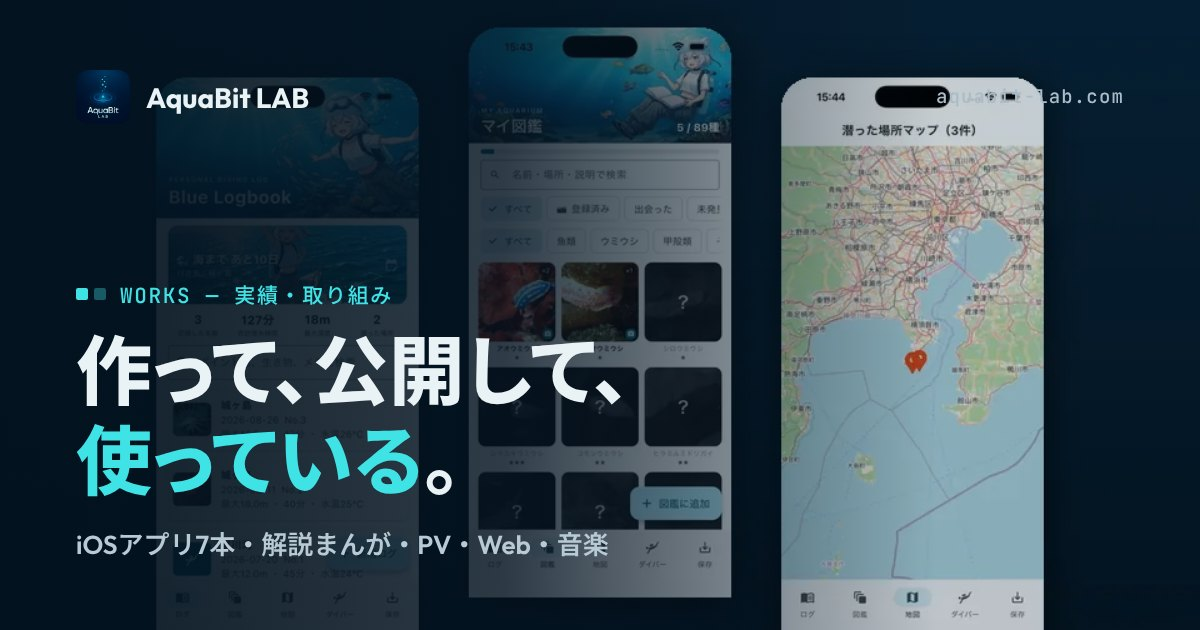
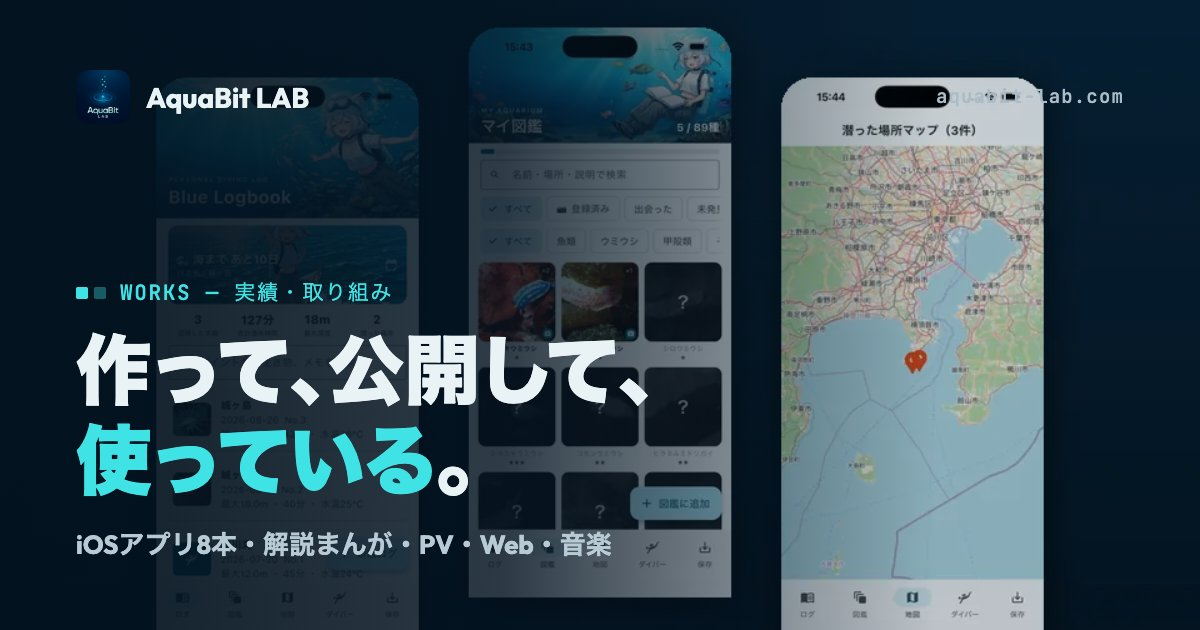
かくれんぼダイブを実績に追加（カード・台帳・アプリ数を8本に）
- /works: かくれんぼダイブのカード（実画面3枚の絵 work-kakurenbo-dive.webp）と台帳の行を足し、ItemList に1本、見出し・LATEST・日付の「7本」「2026-11-14」を「8本」「2026-11-16」に
- 台帳の行は、専用ページを作らず（サポートは三浦 海の学校のサイト）、サポートへのリンクと App Store の公式バッジを置く
- トップ・AI学習サロン・ABLとは・llms.txt・README のアプリ数と名前、sitemap の日付（/・/works・/ai-salon/・/about）
- tools/check.py: アプリ7本も古い数に／tools/og.mjs: og-works の「8本」。og-works.jpg は Mac で描き直し（和文はヒラギノ）。ほかの共有画像は変えていない
- work-kakurenbo-dive.webp は、ストア用の見出しなしの実画面（タコ・撮った瞬間・アルバム）を、ストアの画像と同じ海の紺の地に並べたもの（960x600）

diff --git a/works.html b/works.html
@@ -4,7 +4,7 @@
 <meta charset="utf-8">
 <meta name="viewport" content="width=device-width, initial-scale=1, viewport-fit=cover">
 <title>実績・取り組み｜AIで作ったアプリ・まんが・映像・Web｜AquaBit LAB</title>
-<meta name="description" content="AquaBit LABがAIといっしょに作り、公開・運用しているものの台帳（公開した日付の順）。App Storeで公開中のiOSアプリ「海の日めくり」「うちの行事アルバム」「仏のたとえ」「龍脈マップ」「海学」「いまメシ」「Blue Logbook」、仏さまの縦動画メディア「鬼と仏」、ショート動画の工場とSNSの予約投稿、解説まんが24話、PV・データ映像、アルバム「魚歌」、Webサイトの全面リニューアル、AI検索対策、著書、AIウェビナーなど。">
+<meta name="description" content="AquaBit LABがAIといっしょに作り、公開・運用しているものの台帳（公開した日付の順）。App Storeで公開中のiOSアプリ「かくれんぼダイブ」「海の日めくり」「うちの行事アルバム」「仏のたとえ」「龍脈マップ」「海学」「いまメシ」「Blue Logbook」、仏さまの縦動画メディア「鬼と仏」、ショート動画の工場とSNSの予約投稿、解説まんが24話、PV・データ映像、アルバム「魚歌」、Webサイトの全面リニューアル、AI検索対策、著書、AIウェビナーなど。">
 <meta name="robots" content="index,follow,max-image-preview:large">
 <link rel="canonical" href="https://aquabit-lab.com/works">
 <meta name="theme-color" content="#03121f">
@@ -12,7 +12,7 @@
 <meta property="og:site_name" content="AquaBit LAB">
 <meta property="og:locale" content="ja_JP">
 <meta property="og:title" content="作って、公開して、使っている。— 実績・取り組み｜AquaBit LAB">
-<meta property="og:description" content="AquaBit LABがAIといっしょに作り、公開・運用しているものの台帳（公開した日付の順）。App Storeで公開中のiOSアプリ「海の日めくり」「うちの行事アルバム」「仏のたとえ」「龍脈マップ」「海学」「いまメシ」「Blue Logbook」、仏さまの縦動画メディア「鬼と仏」、ショート動画の工場とSNSの予約投稿、解説まんが24話、PV・データ映像、アルバム「魚歌」、Webサイトの全面リニューアル、AI検索対策、著書、AIウェビナーなど。">
+<meta property="og:description" content="AquaBit LABがAIといっしょに作り、公開・運用しているものの台帳（公開した日付の順）。App Storeで公開中のiOSアプリ「かくれんぼダイブ」「海の日めくり」「うちの行事アルバム」「仏のたとえ」「龍脈マップ」「海学」「いまメシ」「Blue Logbook」、仏さまの縦動画メディア「鬼と仏」、ショート動画の工場とSNSの予約投稿、解説まんが24話、PV・データ映像、アルバム「魚歌」、Webサイトの全面リニューアル、AI検索対策、著書、AIウェビナーなど。">
 <meta property="og:url" content="https://aquabit-lab.com/works">
 <meta property="og:image" content="https://aquabit-lab.com/images/abl/og-works.jpg">
 <meta property="og:image:width" content="1200">
@@ -26,7 +26,7 @@
 <link rel="stylesheet" href="https://fonts.googleapis.com/css2?family=JetBrains+Mono:wght@400;500&family=Outfit:wght@500;700;800&display=optional" media="print" onload="this.media='all'">
 <link rel="stylesheet" href="/css/abl.css?v=2026111401">
 <script>document.documentElement.classList.add('js')</script>
-<script type="application/ld+json">{"@context":"https://schema.org","@graph":[{"@type":"CollectionPage","name":"実績・取り組み","url":"https://aquabit-lab.com/works","isPartOf":{"@id":"https://aquabit-lab.com/#site"},"mainEntity":{"@type":"ItemList","itemListElement":[{"@type":"ListItem","position":1,"item":{"@type":"SoftwareApplication","name":"Blue Logbook - ダイビングログブック","operatingSystem":"iOS","applicationCategory":"SportsApplication","url":"https://apps.apple.com/jp/app/id6806158093","offers":{"@type":"Offer","price":"0","priceCurrency":"JPY"},"author":{"@type":"Person","name":"吉田 哲司"}}},{"@type":"ListItem","position":2,"item":{"@type":"SoftwareApplication","name":"いまメシ","operatingSystem":"iOS","applicationCategory":"FoodAndDrinkApplication","url":"https://apps.apple.com/jp/app/id6806607641","offers":{"@type":"Offer","price":"0","priceCurrency":"JPY"},"author":{"@type":"Person","name":"吉田 哲司"}}},{"@type":"ListItem","position":3,"item":{"@type":"SoftwareApplication","name":"龍脈マップ","operatingSystem":"iOS","applicationCategory":"TravelApplication","url":"https://apps.apple.com/jp/app/id6831985741","offers":{"@type":"Offer","price":"0","priceCurrency":"JPY"},"author":{"@type":"Person","name":"吉田 哲司"}}},{"@type":"ListItem","position":4,"item":{"@type":"SoftwareApplication","name":"仏のたとえ","operatingSystem":"iOS","applicationCategory":"EducationalApplication","url":"https://apps.apple.com/jp/app/id6832482210","offers":{"@type":"Offer","price":"0","priceCurrency":"JPY"},"author":{"@type":"Person","name":"吉田 哲司"}}},{"@type":"ListItem","position":5,"item":{"@type":"SoftwareApplication","name":"うちの行事アルバム","operatingSystem":"iOS","applicationCategory":"MultimediaApplication","url":"https://apps.apple.com/jp/app/id6833319101","offers":{"@type":"Offer","price":"0","priceCurrency":"JPY"},"author":{"@type":"Person","name":"吉田 哲司"}}},{"@type":"ListItem","position":6,"item":{"@type":"SoftwareApplication","name":"海の日めくり","operatingSystem":"iOS","applicationCategory":"LifestyleApplication","url":"https://apps.apple.com/jp/app/id6834386701","offers":{"@type":"Offer","price":"0","priceCurrency":"JPY"},"author":{"@type":"Person","name":"吉田 哲司"}}},{"@type":"ListItem","position":7,"item":{"@type":"SoftwareApplication","name":"海学","operatingSystem":"iOS","applicationCategory":"GameApplication","url":"https://apps.apple.com/jp/app/id6810276864","offers":{"@type":"Offer","price":"0","priceCurrency":"JPY"},"author":{"@type":"Person","name":"吉田 哲司"}}},{"@type":"ListItem","position":8,"item":{"@type":"CreativeWorkSeries","name":"まんがで読むダイビング","url":"https://miura-diving.com/manga/"}},{"@type":"ListItem","position":9,"item":{"@type":"MusicAlbum","name":"魚歌 UO-UTA","url":"https://tj-music.com/","numTracks":19}}]}},{"@type":"BreadcrumbList","itemListElement":[{"@type":"ListItem","position":1,"name":"ホーム","item":"https://aquabit-lab.com/"},{"@type":"ListItem","position":2,"name":"実績・取り組み","item":"https://aquabit-lab.com/works"}]}]}</script>
+<script type="application/ld+json">{"@context":"https://schema.org","@graph":[{"@type":"CollectionPage","name":"実績・取り組み","url":"https://aquabit-lab.com/works","isPartOf":{"@id":"https://aquabit-lab.com/#site"},"mainEntity":{"@type":"ItemList","itemListElement":[{"@type":"ListItem","position":1,"item":{"@type":"SoftwareApplication","name":"Blue Logbook - ダイビングログブック","operatingSystem":"iOS","applicationCategory":"SportsApplication","url":"https://apps.apple.com/jp/app/id6806158093","offers":{"@type":"Offer","price":"0","priceCurrency":"JPY"},"author":{"@type":"Person","name":"吉田 哲司"}}},{"@type":"ListItem","position":2,"item":{"@type":"SoftwareApplication","name":"いまメシ","operatingSystem":"iOS","applicationCategory":"FoodAndDrinkApplication","url":"https://apps.apple.com/jp/app/id6806607641","offers":{"@type":"Offer","price":"0","priceCurrency":"JPY"},"author":{"@type":"Person","name":"吉田 哲司"}}},{"@type":"ListItem","position":3,"item":{"@type":"SoftwareApplication","name":"龍脈マップ","operatingSystem":"iOS","applicationCategory":"TravelApplication","url":"https://apps.apple.com/jp/app/id6831985741","offers":{"@type":"Offer","price":"0","priceCurrency":"JPY"},"author":{"@type":"Person","name":"吉田 哲司"}}},{"@type":"ListItem","position":4,"item":{"@type":"SoftwareApplication","name":"仏のたとえ","operatingSystem":"iOS","applicationCategory":"EducationalApplication","url":"https://apps.apple.com/jp/app/id6832482210","offers":{"@type":"Offer","price":"0","priceCurrency":"JPY"},"author":{"@type":"Person","name":"吉田 哲司"}}},{"@type":"ListItem","position":5,"item":{"@type":"SoftwareApplication","name":"うちの行事アルバム","operatingSystem":"iOS","applicationCategory":"MultimediaApplication","url":"https://apps.apple.com/jp/app/id6833319101","offers":{"@type":"Offer","price":"0","priceCurrency":"JPY"},"author":{"@type":"Person","name":"吉田 哲司"}}},{"@type":"ListItem","position":6,"item":{"@type":"SoftwareApplication","name":"海の日めくり","operatingSystem":"iOS","applicationCategory":"LifestyleApplication","url":"https://apps.apple.com/jp/app/id6834386701","offers":{"@type":"Offer","price":"0","priceCurrency":"JPY"},"author":{"@type":"Person","name":"吉田 哲司"}}},{"@type":"ListItem","position":7,"item":{"@type":"SoftwareApplication","name":"かくれんぼダイブ","operatingSystem":"iOS","applicationCategory":"GameApplication","url":"https://apps.apple.com/jp/app/id6835076333","offers":{"@type":"Offer","price":"0","priceCurrency":"JPY"},"author":{"@type":"Person","name":"吉田 哲司"}}},{"@type":"ListItem","position":8,"item":{"@type":"SoftwareApplication","name":"海学","operatingSystem":"iOS","applicationCategory":"GameApplication","url":"https://apps.apple.com/jp/app/id6810276864","offers":{"@type":"Offer","price":"0","priceCurrency":"JPY"},"author":{"@type":"Person","name":"吉田 哲司"}}},{"@type":"ListItem","position":9,"item":{"@type":"CreativeWorkSeries","name":"まんがで読むダイビング","url":"https://miura-diving.com/manga/"}},{"@type":"ListItem","position":10,"item":{"@type":"MusicAlbum","name":"魚歌 UO-UTA","url":"https://tj-music.com/","numTracks":19}}]}},{"@type":"BreadcrumbList","itemListElement":[{"@type":"ListItem","position":1,"name":"ホーム","item":"https://aquabit-lab.com/"},{"@type":"ListItem","position":2,"name":"実績・取り組み","item":"https://aquabit-lab.com/works"}]}]}</script>
 </head>
 <body class="is-light-top">
 <a class="skip" href="#main">本文へ移動</a>
@@ -56,7 +56,7 @@
 <section class="phero phero--paper phero--short" aria-labelledby="page-title">
   <div class="wrap">
     <ol class="crumbs"><li><a href="/">ホーム</a></li><li aria-current="page">実績・取り組み</li></ol>
-    <p class="label label--live">LATEST — <time datetime="2026-11-14">2026-11-14</time> 海の日めくり</p>
+    <p class="label label--live">LATEST — <time datetime="2026-11-16">2026-11-16</time> かくれんぼダイブ</p>
     <h1 class="h1" id="page-title"><span class="nw">作って、公開して、</span><span class="nw">使っている。</span></h1>
     <p class="lead">公開した日付の順。すべて自分で作り、世に出したものです。お客さまの仕事でも、同じ作り方をします。</p>
   </div>
@@ -65,11 +65,18 @@
 <section class="stage" id="apps" aria-labelledby="apps-title">
   <div class="wrap">
     <div class="sec-head">
-      <p class="label"><time datetime="2026-09">2026-09</time> → <time datetime="2026-11-14">2026-11-14</time> · App Store</p>
-      <h2 class="h2" id="apps-title"><span class="nw">iPhoneアプリ、</span><span class="nw">7本。</span></h2>
+      <p class="label"><time datetime="2026-09">2026-09</time> → <time datetime="2026-11-16">2026-11-16</time> · App Store</p>
+      <h2 class="h2" id="apps-title"><span class="nw">iPhoneアプリ、</span><span class="nw">8本。</span></h2>
       <p class="lead">どれも App Store で無料公開中。何を作るかと最後の確認は人。設計・実装・審査への対応は、AIといっしょに。</p>
     </div>
     <div class="appstrip" aria-label="アプリの実際の画面（横にスクロールできます）">
+      <a class="appcard" href="https://apps.apple.com/jp/app/id6835076333" target="_blank" rel="noopener">
+        <span class="appcard__img"><img src="/images/abl/work-kakurenbo-dive.webp" alt="かくれんぼダイブのゲーム画面3枚。岩の上で色をまねてかくれているマダコ、見つけたカエルアンコウを撮った瞬間、撮った写真が貼られたアルバム（カクレクマノミ・マダコ・タツノオトシゴ・アオウミウシなど）" width="960" height="600" loading="lazy"></span>
+        <span class="appcard__meta">2026-11-16 · 無料</span>
+        <b>かくれんぼダイブ</b>
+        <span class="appcard__desc">かくれる海のいきものを、さがして撮る。</span>
+        <span class="appcard__go">App Store <svg class="arr" viewBox="0 0 24 24" fill="none" stroke="currentColor" stroke-width="1.6" stroke-linecap="round" stroke-linejoin="round" aria-hidden="true"><path d="M7 17L17 7M9 7h8v8"/></svg></span>
+      </a>
       <a class="appcard" href="https://apps.apple.com/jp/app/id6834386701" target="_blank" rel="noopener">
         <span class="appcard__img"><img src="/images/abl/work-umi-himekuri.webp" alt="海の日めくりのアプリ画面3枚。日付・月の形・旧暦・潮・七十二候ときょうのひとことが載った日めくりの紙、紙を長く押すと見えるいまの空（月と星、月の出・月の入りの時刻）、めくった紙と一行がたまる紙の束" width="960" height="600" loading="lazy"></span>
         <span class="appcard__meta">2026-11-14 · 無料</span>
@@ -126,7 +133,7 @@
 <section class="paper" id="ledger" aria-labelledby="list-title">
   <div class="wrap">
     <div class="sec-head">
-      <p class="label"><time datetime="2026-11-14">2026-11-14</time> 更新 — 新しい順</p>
+      <p class="label"><time datetime="2026-11-16">2026-11-16</time> 更新 — 新しい順</p>
       <h2 class="h2" id="list-title"><span class="nw">公開した日付の、</span><span class="nw">台帳。</span></h2>
       <p class="lead">1行に、いつ・何を・人とAIのどちらが何をしたか。種類で絞り込めます。</p>
     </div>
@@ -142,6 +149,16 @@
 
     <div class="works works--ledger">
       <div class="ledger ledger--stack">
+        <div class="ledger__row" data-cat="apps">
+          <span class="ledger__k"><time datetime="2026-11-16">2026-11-16</time><b>アプリ</b></span>
+          <span class="ledger__main">
+            <h3>かくれんぼダイブ — 海のいきものを、さがして撮る</h3>
+            <p>3Dの海で、岩や海藻・砂の色をまねてかくれている海のいきもの（36しゅるい）を見つけて、タッチで写真を撮るiPhoneのゲームです。アザラシのコロといっしょにもぐり、撮った写真は案内役クララのログブックに貼られて、図鑑とアルバムが埋まっていきます。浅瀬から夜の岩礁・沈船まで7つのポイントと、毎日かわる「今日の海」。くうきがへらない「のんびり」やひらがなモードもあり、広告・課金・アカウント登録なしで、オフラインでも遊べます。使い方とサポートは、三浦 海の学校のサイトにあります。</p>
+            <span class="ledger__who"><span><span class="tag tag--human">人</span>何を作るか・遊んでみての直し・最後の確認</span><span><span class="tag tag--ai">AI</span>3Dの海といきもの・設計と実装・審査への対応</span></span>
+          </span>
+          <span class="ledger__go ledger__go--links"><a href="https://miura-diving.com/kakurenbo-dive/support/" target="_blank" rel="noopener">サポート <svg class="arr" viewBox="0 0 24 24" fill="none" stroke="currentColor" stroke-width="1.6" stroke-linecap="round" stroke-linejoin="round" aria-hidden="true"><path d="M7 17L17 7M9 7h8v8"/></svg></a><a href="https://apps.apple.com/jp/app/id6835076333" target="_blank" rel="noopener" aria-label="かくれんぼダイブを App Store からダウンロード（新しいタブで開きます）"><img src="/images/abl/app-store-badge-ja.svg" alt="App Store からダウンロード" width="109" height="40" style="display:block;height:40px;width:auto"></a></span>
+        </div>
+
         <div class="ledger__row" data-cat="apps">
           <span class="ledger__k"><time datetime="2026-11-14">2026-11-14</time><b>アプリ</b></span>
           <span class="ledger__main">

diff --git a/src/pages/works.html b/src/pages/works.html
@@ -1,7 +1,7 @@
 <!--@ {
 "title": "実績・取り組み｜AIで作ったアプリ・まんが・映像・Web｜AquaBit LAB",
 "og_title": "作って、公開して、使っている。— 実績・取り組み｜AquaBit LAB",
-"description": "AquaBit LABがAIといっしょに作り、公開・運用しているものの台帳（公開した日付の順）。App Storeで公開中のiOSアプリ「海の日めくり」「うちの行事アルバム」「仏のたとえ」「龍脈マップ」「海学」「いまメシ」「Blue Logbook」、仏さまの縦動画メディア「鬼と仏」、ショート動画の工場とSNSの予約投稿、解説まんが24話、PV・データ映像、アルバム「魚歌」、Webサイトの全面リニューアル、AI検索対策、著書、AIウェビナーなど。",
+"description": "AquaBit LABがAIといっしょに作り、公開・運用しているものの台帳（公開した日付の順）。App Storeで公開中のiOSアプリ「かくれんぼダイブ」「海の日めくり」「うちの行事アルバム」「仏のたとえ」「龍脈マップ」「海学」「いまメシ」「Blue Logbook」、仏さまの縦動画メディア「鬼と仏」、ショート動画の工場とSNSの予約投稿、解説まんが24話、PV・データ映像、アルバム「魚歌」、Webサイトの全面リニューアル、AI検索対策、著書、AIウェビナーなど。",
 "path": "/works",
 "og": "og-works.jpg",
 "nav": "works",
@@ -16,16 +16,17 @@
      {"@type": "ListItem", "position": 4, "item": {"@type": "SoftwareApplication", "name": "仏のたとえ", "operatingSystem": "iOS", "applicationCategory": "EducationalApplication", "url": "https://apps.apple.com/jp/app/id6832482210", "offers": {"@type": "Offer", "price": "0", "priceCurrency": "JPY"}, "author": {"@type": "Person", "name": "吉田 哲司"}}},
      {"@type": "ListItem", "position": 5, "item": {"@type": "SoftwareApplication", "name": "うちの行事アルバム", "operatingSystem": "iOS", "applicationCategory": "MultimediaApplication", "url": "https://apps.apple.com/jp/app/id6833319101", "offers": {"@type": "Offer", "price": "0", "priceCurrency": "JPY"}, "author": {"@type": "Person", "name": "吉田 哲司"}}},
      {"@type": "ListItem", "position": 6, "item": {"@type": "SoftwareApplication", "name": "海の日めくり", "operatingSystem": "iOS", "applicationCategory": "LifestyleApplication", "url": "https://apps.apple.com/jp/app/id6834386701", "offers": {"@type": "Offer", "price": "0", "priceCurrency": "JPY"}, "author": {"@type": "Person", "name": "吉田 哲司"}}},
-     {"@type": "ListItem", "position": 7, "item": {"@type": "SoftwareApplication", "name": "海学", "operatingSystem": "iOS", "applicationCategory": "GameApplication", "url": "https://apps.apple.com/jp/app/id6810276864", "offers": {"@type": "Offer", "price": "0", "priceCurrency": "JPY"}, "author": {"@type": "Person", "name": "吉田 哲司"}}},
-     {"@type": "ListItem", "position": 8, "item": {"@type": "CreativeWorkSeries", "name": "まんがで読むダイビング", "url": "https://miura-diving.com/manga/"}},
-     {"@type": "ListItem", "position": 9, "item": {"@type": "MusicAlbum", "name": "魚歌 UO-UTA", "url": "https://tj-music.com/", "numTracks": 19}}
+     {"@type": "ListItem", "position": 7, "item": {"@type": "SoftwareApplication", "name": "かくれんぼダイブ", "operatingSystem": "iOS", "applicationCategory": "GameApplication", "url": "https://apps.apple.com/jp/app/id6835076333", "offers": {"@type": "Offer", "price": "0", "priceCurrency": "JPY"}, "author": {"@type": "Person", "name": "吉田 哲司"}}},
+     {"@type": "ListItem", "position": 8, "item": {"@type": "SoftwareApplication", "name": "海学", "operatingSystem": "iOS", "applicationCategory": "GameApplication", "url": "https://apps.apple.com/jp/app/id6810276864", "offers": {"@type": "Offer", "price": "0", "priceCurrency": "JPY"}, "author": {"@type": "Person", "name": "吉田 哲司"}}},
+     {"@type": "ListItem", "position": 9, "item": {"@type": "CreativeWorkSeries", "name": "まんがで読むダイビング", "url": "https://miura-diving.com/manga/"}},
+     {"@type": "ListItem", "position": 10, "item": {"@type": "MusicAlbum", "name": "魚歌 UO-UTA", "url": "https://tj-music.com/", "numTracks": 19}}
    ]}}
 ]
 } @-->
 <section class="phero phero--paper phero--short" aria-labelledby="page-title">
   <div class="wrap">
     <ol class="crumbs"><li><a href="/">ホーム</a></li><li aria-current="page">実績・取り組み</li></ol>
-    <p class="label label--live">LATEST — <time datetime="2026-11-14">2026-11-14</time> 海の日めくり</p>
+    <p class="label label--live">LATEST — <time datetime="2026-11-16">2026-11-16</time> かくれんぼダイブ</p>
     <h1 class="h1" id="page-title"><span class="nw">作って、公開して、</span><span class="nw">使っている。</span></h1>
     <p class="lead">公開した日付の順。すべて自分で作り、世に出したものです。お客さまの仕事でも、同じ作り方をします。</p>
   </div>
@@ -34,11 +35,18 @@
 <section class="stage" id="apps" aria-labelledby="apps-title">
   <div class="wrap">
     <div class="sec-head">
-      <p class="label"><time datetime="2026-09">2026-09</time> → <time datetime="2026-11-14">2026-11-14</time> · App Store</p>
-      <h2 class="h2" id="apps-title"><span class="nw">iPhoneアプリ、</span><span class="nw">7本。</span></h2>
+      <p class="label"><time datetime="2026-09">2026-09</time> → <time datetime="2026-11-16">2026-11-16</time> · App Store</p>
+      <h2 class="h2" id="apps-title"><span class="nw">iPhoneアプリ、</span><span class="nw">8本。</span></h2>
       <p class="lead">どれも App Store で無料公開中。何を作るかと最後の確認は人。設計・実装・審査への対応は、AIといっしょに。</p>
     </div>
     <div class="appstrip" aria-label="アプリの実際の画面（横にスクロールできます）">
+      <a class="appcard" href="https://apps.apple.com/jp/app/id6835076333" target="_blank" rel="noopener">
+        <span class="appcard__img"><img src="/images/abl/work-kakurenbo-dive.webp" alt="かくれんぼダイブのゲーム画面3枚。岩の上で色をまねてかくれているマダコ、見つけたカエルアンコウを撮った瞬間、撮った写真が貼られたアルバム（カクレクマノミ・マダコ・タツノオトシゴ・アオウミウシなど）" width="960" height="600" loading="lazy"></span>
+        <span class="appcard__meta">2026-11-16 · 無料</span>
+        <b>かくれんぼダイブ</b>
+        <span class="appcard__desc">かくれる海のいきものを、さがして撮る。</span>
+        <span class="appcard__go">App Store {{ext}}</span>
+      </a>
       <a class="appcard" href="https://apps.apple.com/jp/app/id6834386701" target="_blank" rel="noopener">
         <span class="appcard__img"><img src="/images/abl/work-umi-himekuri.webp" alt="海の日めくりのアプリ画面3枚。日付・月の形・旧暦・潮・七十二候ときょうのひとことが載った日めくりの紙、紙を長く押すと見えるいまの空（月と星、月の出・月の入りの時刻）、めくった紙と一行がたまる紙の束" width="960" height="600" loading="lazy"></span>
         <span class="appcard__meta">2026-11-14 · 無料</span>
@@ -95,7 +103,7 @@
 <section class="paper" id="ledger" aria-labelledby="list-title">
   <div class="wrap">
     <div class="sec-head">
-      <p class="label"><time datetime="2026-11-14">2026-11-14</time> 更新 — 新しい順</p>
+      <p class="label"><time datetime="2026-11-16">2026-11-16</time> 更新 — 新しい順</p>
       <h2 class="h2" id="list-title"><span class="nw">公開した日付の、</span><span class="nw">台帳。</span></h2>
       <p class="lead">1行に、いつ・何を・人とAIのどちらが何をしたか。種類で絞り込めます。</p>
     </div>
@@ -111,6 +119,16 @@
 
     <div class="works works--ledger">
       <div class="ledger ledger--stack">
+        <div class="ledger__row" data-cat="apps">
+          <span class="ledger__k"><time datetime="2026-11-16">2026-11-16</time><b>アプリ</b></span>
+          <span class="ledger__main">
+            <h3>かくれんぼダイブ — 海のいきものを、さがして撮る</h3>
+            <p>3Dの海で、岩や海藻・砂の色をまねてかくれている海のいきもの（36しゅるい）を見つけて、タッチで写真を撮るiPhoneのゲームです。アザラシのコロといっしょにもぐり、撮った写真は案内役クララのログブックに貼られて、図鑑とアルバムが埋まっていきます。浅瀬から夜の岩礁・沈船まで7つのポイントと、毎日かわる「今日の海」。くうきがへらない「のんびり」やひらがなモードもあり、広告・課金・アカウント登録なしで、オフラインでも遊べます。使い方とサポートは、三浦 海の学校のサイトにあります。</p>
+            <span class="ledger__who"><span><span class="tag tag--human">人</span>何を作るか・遊んでみての直し・最後の確認</span><span><span class="tag tag--ai">AI</span>3Dの海といきもの・設計と実装・審査への対応</span></span>
+          </span>
+          <span class="ledger__go ledger__go--links"><a href="https://miura-diving.com/kakurenbo-dive/support/" target="_blank" rel="noopener">サポート {{ext}}</a><a href="https://apps.apple.com/jp/app/id6835076333" target="_blank" rel="noopener" aria-label="かくれんぼダイブを App Store からダウンロード（新しいタブで開きます）"><img src="/images/abl/app-store-badge-ja.svg" alt="App Store からダウンロード" width="109" height="40" style="display:block;height:40px;width:auto"></a></span>
+        </div>
+
         <div class="ledger__row" data-cat="apps">
           <span class="ledger__k"><time datetime="2026-11-14">2026-11-14</time><b>アプリ</b></span>
           <span class="ledger__main">

diff --git a/ai-salon/index.html b/ai-salon/index.html
@@ -91,7 +91,7 @@
       <p class="lead">どれも講師がAIといっしょに作り、公開・販売しているものです。</p>
     </div>
     <div class="ledger">
-      <a class="ledger__row" href="/works#apps"><span class="ledger__k">APPS<b>iPhoneアプリ 7本</b></span><div class="ledger__main"><h3>Blue Logbook・いまメシ・海学・龍脈マップ・仏のたとえ・うちの行事アルバム・海の日めくり。</h3><p>どれも App Store で無料公開中。いちばん新しい海の日めくりは、2026年11月14日の公開です。</p></div><span class="ledger__go">アプリを見る <svg class="arr" viewBox="0 0 24 24" fill="none" stroke="currentColor" stroke-width="1.6" stroke-linecap="round" stroke-linejoin="round" aria-hidden="true"><path d="M4 12h15M13 6l6 6-6 6"/></svg></span></a>
+      <a class="ledger__row" href="/works#apps"><span class="ledger__k">APPS<b>iPhoneアプリ 8本</b></span><div class="ledger__main"><h3>Blue Logbook・いまメシ・海学・龍脈マップ・仏のたとえ・うちの行事アルバム・海の日めくり・かくれんぼダイブ。</h3><p>どれも App Store で無料公開中。いちばん新しいかくれんぼダイブは、2026年11月16日の公開です。</p></div><span class="ledger__go">アプリを見る <svg class="arr" viewBox="0 0 24 24" fill="none" stroke="currentColor" stroke-width="1.6" stroke-linecap="round" stroke-linejoin="round" aria-hidden="true"><path d="M4 12h15M13 6l6 6-6 6"/></svg></span></a>
       <a class="ledger__row" href="https://miura-diving.com/manga/" target="_blank" rel="noopener"><span class="ledger__k">MANGA<b>まんが 24話</b></span><div class="ledger__main"><h3>よくある質問を、1話ずつまんがに。</h3><p>三浦 海の学校の「まんがで読むダイビング」。24話と動画版を、AIといっしょに作って公開しています。</p></div><span class="ledger__go">読む <svg class="arr" viewBox="0 0 24 24" fill="none" stroke="currentColor" stroke-width="1.6" stroke-linecap="round" stroke-linejoin="round" aria-hidden="true"><path d="M7 17L17 7M9 7h8v8"/></svg></span></a>
       <a class="ledger__row" href="https://tj-music.com/" target="_blank" rel="noopener"><span class="ledger__k">MUSIC<b>アルバム「魚歌」</b></span><div class="ledger__main"><h3>海の生き物を歌う、全19曲。</h3><p>AIの音楽制作ツールで作ったアルバムを配信しています。サビから試聴できます。</p></div><span class="ledger__go">試聴する <svg class="arr" viewBox="0 0 24 24" fill="none" stroke="currentColor" stroke-width="1.6" stroke-linecap="round" stroke-linejoin="round" aria-hidden="true"><path d="M7 17L17 7M9 7h8v8"/></svg></span></a>
       <a class="ledger__row" href="https://www.amazon.co.jp/dp/B0CW1D9Y1Y" target="_blank" rel="noopener"><span class="ledger__k">KINDLE<b>AI絵本・Kindle本</b></span><div class="ledger__main"><h3>文章と絵をAIで作り、Amazonで出版。</h3><p>『うみがめになったぜんくんの大冒険』は、AmazonのAI絵本ランキングで2位に。</p></div><span class="ledger__go">Amazon <svg class="arr" viewBox="0 0 24 24" fill="none" stroke="currentColor" stroke-width="1.6" stroke-linecap="round" stroke-linejoin="round" aria-hidden="true"><path d="M7 17L17 7M9 7h8v8"/></svg></span></a>

diff --git a/about.html b/about.html
@@ -124,7 +124,7 @@
           <div class="ledger__row"><span class="ledger__k">50回+<b>AIウェビナー</b></span><div class="ledger__main"><p>のべ500名以上が参加。</p></div></div>
           <a class="ledger__row" href="https://www.tj-web3.com/#books" target="_blank" rel="noopener"><span class="ledger__k">12冊<b>Kindle</b></span><div class="ledger__main"><p>AI入門・AI絵本・ダイビングの本。</p></div><span class="ledger__go"><svg class="arr" viewBox="0 0 24 24" fill="none" stroke="currentColor" stroke-width="1.6" stroke-linecap="round" stroke-linejoin="round" aria-hidden="true"><path d="M7 17L17 7M9 7h8v8"/></svg></span></a>
           <a class="ledger__row" href="https://tj-music.com/" target="_blank" rel="noopener"><span class="ledger__k">3枚<b>TJ Music</b></span><div class="ledger__main"><p>アルバム。海の生き物を歌う「魚歌」ほか。</p></div><span class="ledger__go"><svg class="arr" viewBox="0 0 24 24" fill="none" stroke="currentColor" stroke-width="1.6" stroke-linecap="round" stroke-linejoin="round" aria-hidden="true"><path d="M7 17L17 7M9 7h8v8"/></svg></span></a>
-          <a class="ledger__row" href="/works#apps"><span class="ledger__k">2026<b>iPhoneアプリ 7本</b></span><div class="ledger__main"><p>Blue Logbook・いまメシ・海学（2026.09）、龍脈マップ（2026.11.08）、仏のたとえ（2026.11.10）、うちの行事アルバム（2026.11.12）、海の日めくり（2026.11.14）。App Store で無料公開中。</p></div><span class="ledger__go"><svg class="arr" viewBox="0 0 24 24" fill="none" stroke="currentColor" stroke-width="1.6" stroke-linecap="round" stroke-linejoin="round" aria-hidden="true"><path d="M4 12h15M13 6l6 6-6 6"/></svg></span></a>
+          <a class="ledger__row" href="/works#apps"><span class="ledger__k">2026<b>iPhoneアプリ 8本</b></span><div class="ledger__main"><p>Blue Logbook・いまメシ・海学（2026.09）、龍脈マップ（2026.11.08）、仏のたとえ（2026.11.10）、うちの行事アルバム（2026.11.12）、海の日めくり（2026.11.14）、かくれんぼダイブ（2026.11.16）。App Store で無料公開中。</p></div><span class="ledger__go"><svg class="arr" viewBox="0 0 24 24" fill="none" stroke="currentColor" stroke-width="1.6" stroke-linecap="round" stroke-linejoin="round" aria-hidden="true"><path d="M4 12h15M13 6l6 6-6 6"/></svg></span></a>
           <a class="ledger__row" href="/lab"><span class="ledger__k">2026.10–<b>ラボの中</b></span><div class="ledger__main"><p>三浦 海の学校のSNSで、縦の短い動画を作って、予約して出す。人が決めて、AIが回す。</p></div><span class="ledger__go"><svg class="arr" viewBox="0 0 24 24" fill="none" stroke="currentColor" stroke-width="1.6" stroke-linecap="round" stroke-linejoin="round" aria-hidden="true"><path d="M4 12h15M13 6l6 6-6 6"/></svg></span></a>
         </div>
       </div>

diff --git a/index.html b/index.html
@@ -155,7 +155,7 @@
     <div class="ledger mt-l">
       <a class="ledger__row" href="https://miura-diving.com/blog/" target="_blank" rel="noopener"><span class="ledger__k">BLOG<b>ブログ</b></span><span class="ledger__main"><h3>潜った日のメモから、記事と挿絵まで。</h3><p>人が写真と一言を渡すと、AIが下書き・挿絵・公開の準備をする。三浦 海の学校のブログ。</p></span><span class="ledger__go">見る <svg class="arr" viewBox="0 0 24 24" fill="none" stroke="currentColor" stroke-width="1.6" stroke-linecap="round" stroke-linejoin="round" aria-hidden="true"><path d="M7 17L17 7M9 7h8v8"/></svg></span></a>
       <a class="ledger__row" href="https://miura-diving.com/manga/" target="_blank" rel="noopener"><span class="ledger__k">MANGA<b>まんが 24話</b></span><span class="ledger__main"><h3>お客さまの不安に、1話ずつ先回り。</h3><p>テーマと事実は人が決め、構成・作画・動画化はAI。全ページを人が確かめて公開。</p></span><span class="ledger__go">読む <svg class="arr" viewBox="0 0 24 24" fill="none" stroke="currentColor" stroke-width="1.6" stroke-linecap="round" stroke-linejoin="round" aria-hidden="true"><path d="M7 17L17 7M9 7h8v8"/></svg></span></a>
-      <a class="ledger__row" href="/works"><span class="ledger__k">APPS<b>iPhoneアプリ 7本</b></span><span class="ledger__main"><h3>Blue Logbook・いまメシ・海学・龍脈マップ・仏のたとえ・うちの行事アルバム・海の日めくり。</h3><p>どれも App Store で無料公開中。設計・実装・審査への対応まで、AIといっしょに。</p></span><span class="ledger__go">実績へ <svg class="arr" viewBox="0 0 24 24" fill="none" stroke="currentColor" stroke-width="1.6" stroke-linecap="round" stroke-linejoin="round" aria-hidden="true"><path d="M4 12h15M13 6l6 6-6 6"/></svg></span></a>
+      <a class="ledger__row" href="/works"><span class="ledger__k">APPS<b>iPhoneアプリ 8本</b></span><span class="ledger__main"><h3>Blue Logbook・いまメシ・海学・龍脈マップ・仏のたとえ・うちの行事アルバム・海の日めくり・かくれんぼダイブ。</h3><p>どれも App Store で無料公開中。設計・実装・審査への対応まで、AIといっしょに。</p></span><span class="ledger__go">実績へ <svg class="arr" viewBox="0 0 24 24" fill="none" stroke="currentColor" stroke-width="1.6" stroke-linecap="round" stroke-linejoin="round" aria-hidden="true"><path d="M4 12h15M13 6l6 6-6 6"/></svg></span></a>
     </div>
   </div>
 </section>

diff --git a/src/pages/ai-salon.html b/src/pages/ai-salon.html
@@ -57,7 +57,7 @@
       <p class="lead">どれも講師がAIといっしょに作り、公開・販売しているものです。</p>
     </div>
     <div class="ledger">
-      <a class="ledger__row" href="/works#apps"><span class="ledger__k">APPS<b>iPhoneアプリ 7本</b></span><div class="ledger__main"><h3>Blue Logbook・いまメシ・海学・龍脈マップ・仏のたとえ・うちの行事アルバム・海の日めくり。</h3><p>どれも App Store で無料公開中。いちばん新しい海の日めくりは、2026年11月14日の公開です。</p></div><span class="ledger__go">アプリを見る {{arr}}</span></a>
+      <a class="ledger__row" href="/works#apps"><span class="ledger__k">APPS<b>iPhoneアプリ 8本</b></span><div class="ledger__main"><h3>Blue Logbook・いまメシ・海学・龍脈マップ・仏のたとえ・うちの行事アルバム・海の日めくり・かくれんぼダイブ。</h3><p>どれも App Store で無料公開中。いちばん新しいかくれんぼダイブは、2026年11月16日の公開です。</p></div><span class="ledger__go">アプリを見る {{arr}}</span></a>
       <a class="ledger__row" href="https://miura-diving.com/manga/" target="_blank" rel="noopener"><span class="ledger__k">MANGA<b>まんが 24話</b></span><div class="ledger__main"><h3>よくある質問を、1話ずつまんがに。</h3><p>三浦 海の学校の「まんがで読むダイビング」。24話と動画版を、AIといっしょに作って公開しています。</p></div><span class="ledger__go">読む {{ext}}</span></a>
       <a class="ledger__row" href="https://tj-music.com/" target="_blank" rel="noopener"><span class="ledger__k">MUSIC<b>アルバム「魚歌」</b></span><div class="ledger__main"><h3>海の生き物を歌う、全19曲。</h3><p>AIの音楽制作ツールで作ったアルバムを配信しています。サビから試聴できます。</p></div><span class="ledger__go">試聴する {{ext}}</span></a>
       <a class="ledger__row" href="https://www.amazon.co.jp/dp/B0CW1D9Y1Y" target="_blank" rel="noopener"><span class="ledger__k">KINDLE<b>AI絵本・Kindle本</b></span><div class="ledger__main"><h3>文章と絵をAIで作り、Amazonで出版。</h3><p>『うみがめになったぜんくんの大冒険』は、AmazonのAI絵本ランキングで2位に。</p></div><span class="ledger__go">Amazon {{ext}}</span></a>

diff --git a/src/pages/about.html b/src/pages/about.html
@@ -85,7 +85,7 @@
           <div class="ledger__row"><span class="ledger__k">50回+<b>AIウェビナー</b></span><div class="ledger__main"><p>のべ500名以上が参加。</p></div></div>
           <a class="ledger__row" href="https://www.tj-web3.com/#books" target="_blank" rel="noopener"><span class="ledger__k">12冊<b>Kindle</b></span><div class="ledger__main"><p>AI入門・AI絵本・ダイビングの本。</p></div><span class="ledger__go">{{ext}}</span></a>
           <a class="ledger__row" href="https://tj-music.com/" target="_blank" rel="noopener"><span class="ledger__k">3枚<b>TJ Music</b></span><div class="ledger__main"><p>アルバム。海の生き物を歌う「魚歌」ほか。</p></div><span class="ledger__go">{{ext}}</span></a>
-          <a class="ledger__row" href="/works#apps"><span class="ledger__k">2026<b>iPhoneアプリ 7本</b></span><div class="ledger__main"><p>Blue Logbook・いまメシ・海学（2026.09）、龍脈マップ（2026.11.08）、仏のたとえ（2026.11.10）、うちの行事アルバム（2026.11.12）、海の日めくり（2026.11.14）。App Store で無料公開中。</p></div><span class="ledger__go">{{arr}}</span></a>
+          <a class="ledger__row" href="/works#apps"><span class="ledger__k">2026<b>iPhoneアプリ 8本</b></span><div class="ledger__main"><p>Blue Logbook・いまメシ・海学（2026.09）、龍脈マップ（2026.11.08）、仏のたとえ（2026.11.10）、うちの行事アルバム（2026.11.12）、海の日めくり（2026.11.14）、かくれんぼダイブ（2026.11.16）。App Store で無料公開中。</p></div><span class="ledger__go">{{arr}}</span></a>
           <a class="ledger__row" href="/lab"><span class="ledger__k">2026.10–<b>ラボの中</b></span><div class="ledger__main"><p>三浦 海の学校のSNSで、縦の短い動画を作って、予約して出す。人が決めて、AIが回す。</p></div><span class="ledger__go">{{arr}}</span></a>
         </div>
       </div>

diff --git a/src/pages/index.html b/src/pages/index.html
@@ -120,7 +120,7 @@
     <div class="ledger mt-l">
       <a class="ledger__row" href="https://miura-diving.com/blog/" target="_blank" rel="noopener"><span class="ledger__k">BLOG<b>ブログ</b></span><span class="ledger__main"><h3>潜った日のメモから、記事と挿絵まで。</h3><p>人が写真と一言を渡すと、AIが下書き・挿絵・公開の準備をする。三浦 海の学校のブログ。</p></span><span class="ledger__go">見る {{ext}}</span></a>
       <a class="ledger__row" href="https://miura-diving.com/manga/" target="_blank" rel="noopener"><span class="ledger__k">MANGA<b>まんが 24話</b></span><span class="ledger__main"><h3>お客さまの不安に、1話ずつ先回り。</h3><p>テーマと事実は人が決め、構成・作画・動画化はAI。全ページを人が確かめて公開。</p></span><span class="ledger__go">読む {{ext}}</span></a>
-      <a class="ledger__row" href="/works"><span class="ledger__k">APPS<b>iPhoneアプリ 7本</b></span><span class="ledger__main"><h3>Blue Logbook・いまメシ・海学・龍脈マップ・仏のたとえ・うちの行事アルバム・海の日めくり。</h3><p>どれも App Store で無料公開中。設計・実装・審査への対応まで、AIといっしょに。</p></span><span class="ledger__go">実績へ {{arr}}</span></a>
+      <a class="ledger__row" href="/works"><span class="ledger__k">APPS<b>iPhoneアプリ 8本</b></span><span class="ledger__main"><h3>Blue Logbook・いまメシ・海学・龍脈マップ・仏のたとえ・うちの行事アルバム・海の日めくり・かくれんぼダイブ。</h3><p>どれも App Store で無料公開中。設計・実装・審査への対応まで、AIといっしょに。</p></span><span class="ledger__go">実績へ {{arr}}</span></a>
     </div>
   </div>
 </section>

diff --git a/tools/check.py b/tools/check.py
@@ -21,7 +21,7 @@ FORBID = [
     "バズ", "爆発的", "誰でも簡単", "効果保証", "完全自動", "24時間監視", "ゼロトラスト",
 ]
 STALE = [
-    (r"アプリ\s*[2456]\s*本", "アプリは7本"),
+    (r"アプリ\s*[24567]\s*本", "アプリは8本"),
     (r"(?<![0-9])22\s*話", "まんがは24話"),
     (r"2026年9月時点", "数字の時点が古い"),
 ]

diff --git a/README.md b/README.md
@@ -73,7 +73,7 @@
 ## 決めごと
 
 - **数字・実績を作らない**。使ってよいのは公開済みのもの（認定ダイバー1,500名+／ウェビナー50回+・参加500名+／
-  1997年〜・2001年PADIコースディレクター／App Store公開7本／まんが24話／「魚歌」19曲／Kindle12冊）。
+  1997年〜・2001年PADIコースディレクター／App Store公開8本／まんが24話／「魚歌」19曲／Kindle12冊）。
   お客さまの声は、実在・掲載許可のあるものだけ。
 - 旧住所・旧固定電話は、どのページにも出さない（このリポジトリは公開なので、ここにも書かない）。所在地は「神奈川県三浦市（詳細は請求時に開示）」。
 - トーンは「海とAI、二つの未来へ」。短く断定。ただし誇大表現（必ず・絶対・日本初・No.1）と恐怖で煽る書き方はしない。
